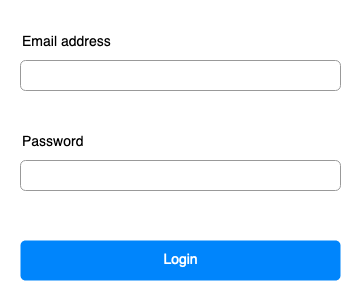
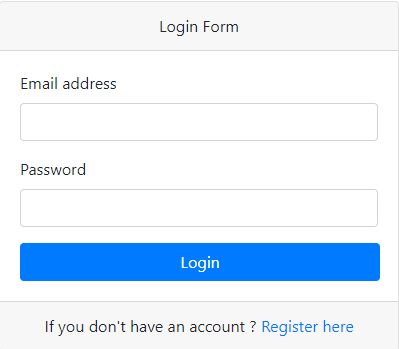
register

diff --git a/register.php b/register.php
@@ -4,47 +4,41 @@
     <meta charset="UTF-8">
     <meta http-equiv="X-UA-Compatible" content="IE=edge">
     <meta name="viewport" content="width=device-width, initial-scale=1.0">
-    <title>Login Form</title>
+    <title>Register Form</title>
     <link rel="stylesheet" href="css/style.css">
 </head>
 <body>
     <?php
        session_start();
        include ('db.php');
-       if(isset($_POST['Login'])) {
+       if(isset($_POST['register'])) {
 
+            $name= $_POST['name'];
             $email= $_POST['email'];
             $password= $_POST['password'];
-            $query = "SELECT * FROM `users` WHERE email='$email' OR password='$password' ";
-            $result = mysqli_query($connect,$query)or die("Could Not Perform the Query");
  
-            if(mysqli_num_rows($result) == 1) { 
-              foreach($result as $data) {
-                $db_name = $data['name'];
-                $db_email = $data['email'];
-                $db_password = $data['password'];
-              }
-              if($password == $db_password) {
-                $_SESSION['name'] = $db_name;
-                $_SESSION['email'] = $db_email;
-                $_SESSION['password'] = $db_password;
-                header('location:home.php');
-              }
-              else {
-                echo "Incorrect Password!";
-              }
-            }
-            else {
-                echo "Please register";
-            }
-                  
+            if($name && $email && $password) {
+                    $query = "INSERT INTO `users`(`name`,`email`,`password`) VALUES ('$name','$email','$password')";
+                    mysqli_query($connect,$query);
+                    $_SESSION['name'] = $name;
+                    $_SESSION['email'] = $email;
+                    $_SESSION['password']= $password;
+                    header('location:login.php');
+                }
+                else {
+                    echo "All text fields are required";
+                }
         }
     ?>
   <div class="container">
     <div class="card mt-4 " style="width: 25rem;">
-      <div class="card-header text-center">Login Form</div>
+      <div class="card-header text-center">Register Form</div>
         <div class="card-body">
             <form action="" method="POST">
+                <div class="form-group">
+                    <label for="InputName">Name</label>
+                    <input name="name" type="name" class="form-control" id="InputName">
+                </div>
                 <div class="form-group">
                     <label for="InputEmail">Email address</label>
                     <input name="email" type="email" class="form-control" id="InputEmail" aria-describedby="emailHelp">
@@ -53,12 +47,12 @@
                     <label for="InputPassword">Password</label>
                     <input name="password" type="password" class="form-control" id="InputPassword">
                 </div>
-                <button name="Login" type="submit" class="btn btn-primary" style="width: 22.5rem;">Login</button>
+                <button name="register" type="submit" class="btn btn-primary" style="width: 22.5rem;">Sign up</button>
             </form>
         </div>
         <div class="card-footer">
           <div class="text-center">
-            If you don't have an account ? <a href="register.php">Register here</a>
+            If you already have an account ? <a href="login.php">Login here</a>
           </div>
         </div>
     </div>

diff --git a/db.php b/db.php
@@ -1,0 +1,8 @@
+<?php
+
+    $db_host = 'localhost';
+    $db_user = 'root';
+    $db_pass = 'kmns7';
+    $db_name = 'register';
+
+    $connect = mysqli_connect($db_host, $db_user, $db_pass, $db_name);

diff --git a/logout.php b/logout.php
@@ -4,4 +4,3 @@
    unset($_SESSION["password"]);
 
    header('location:login.php');
-?>

diff --git a/readme.md b/readme.md
@@ -1,14 +1,20 @@
-# Login
+# Register
 
+- [Register](#register)
 - [Login](#login)
 - [Home](#home)
 - [Logout](#logout)
+## Register
+Here is a register page. Must be fill all input field `name`,`email`, and `password`. Show error message if something is missing. After register, this result is saved to `users` table of database and redirect to home page.
+    
+![Register Image](./images/register.png)
 
 ## login
 
-Here is a login page to login. Valid email is `admin@admin.com` and password is  `secret`. Show error message if email or password is incorrect. If email and password is correct, redirect to home page.It should not access after logged in.
+Here is a login page.When email and password is equal to the results from `users` table, redirect to home page. It should not access after logged in. Show error message if email or password is incorrect. 
 
 ![Login Image](./images/login.png)
+
 
 ## Home
 
